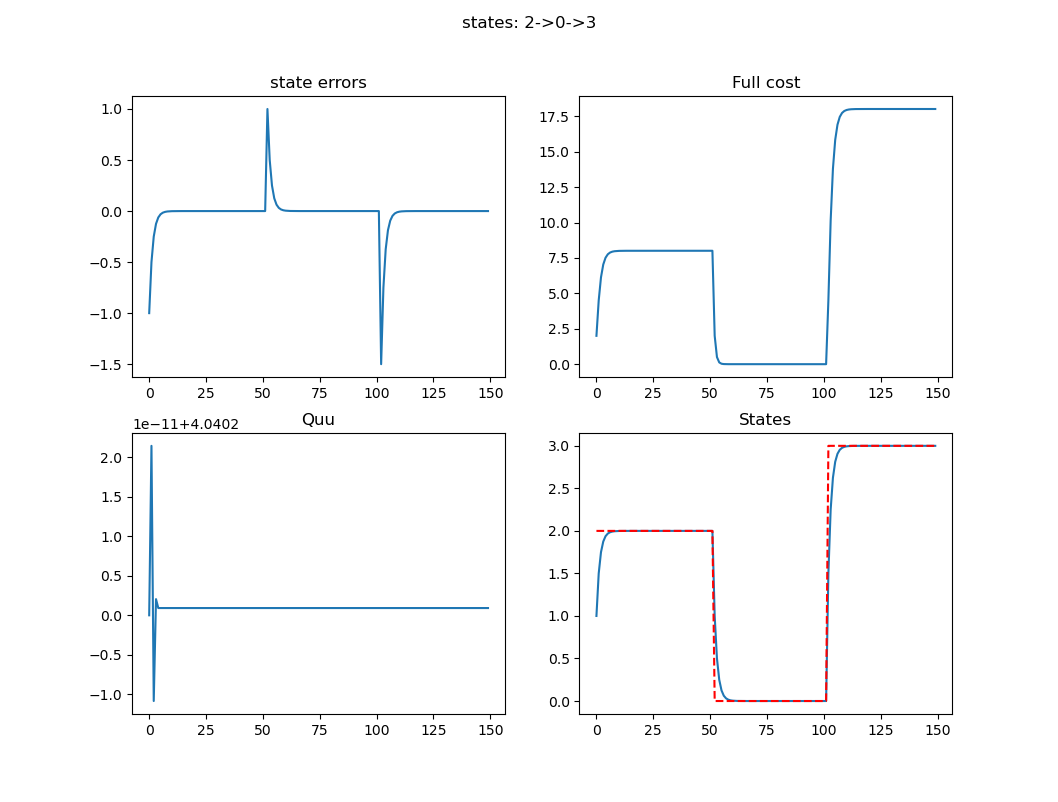
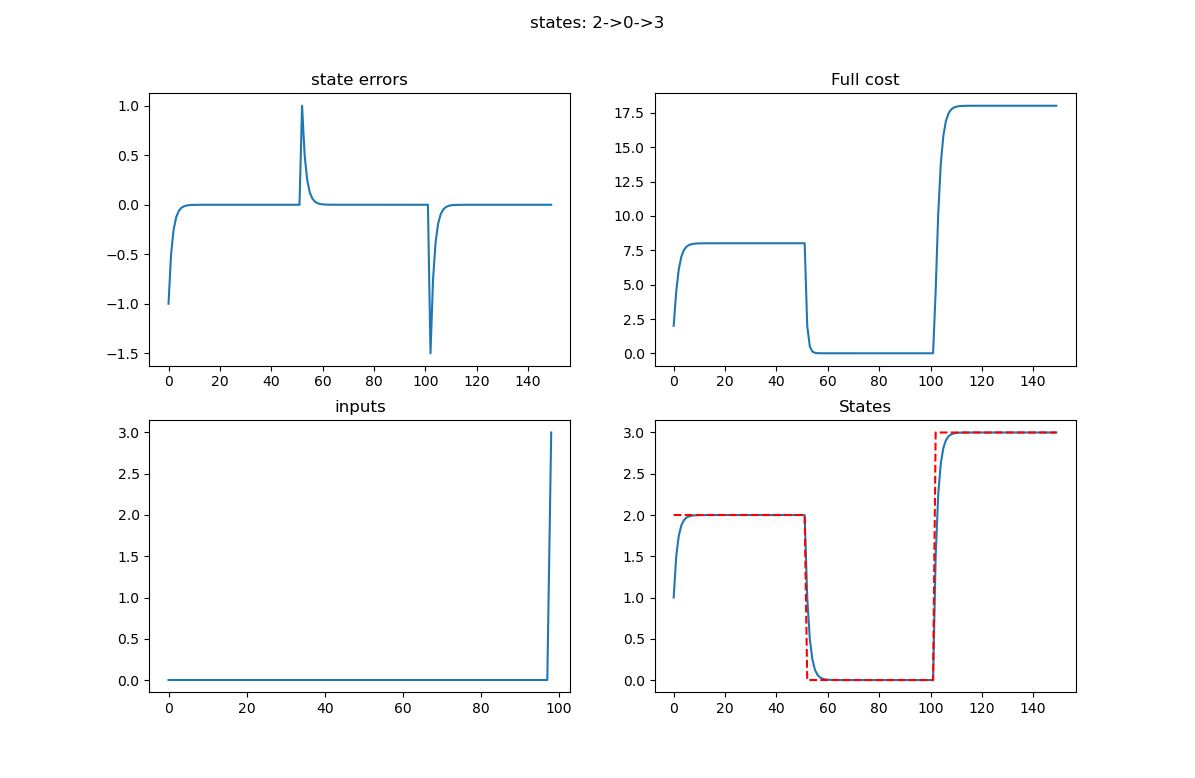
add inputs plot

diff --git a/main.py b/main.py
@@ -182,13 +182,11 @@ if __name__ == "__main__":
     errors2 = []
     states2 = []
     cost2 = []
-    Quu2 = []
     target_states = []
     for i in range(150):
         sys2.backward()
         sys2.forward()
         states2.append(sys2.states[-1])
-        Quu2.append(sys2.get_Quu())
         errors2.append(sys2.error())
         cost2.append(sys2.full_cost(loss))
         target_states.append(target_state)
@@ -206,8 +204,8 @@ if __name__ == "__main__":
     axs[0, 0].set_title('state errors')
     axs[0, 1].plot(cost2)
     axs[0, 1].set_title('Full cost')
-    axs[1, 0].plot(Quu2)
-    axs[1, 0].set_title('Quu')
+    axs[1, 0].plot(sys2.inputs)
+    axs[1, 0].set_title('inputs')
     axs[1, 1].plot(states2)
     axs[1, 1].plot(target_states, 'r--',)
     axs[1, 1].set_title('States')
